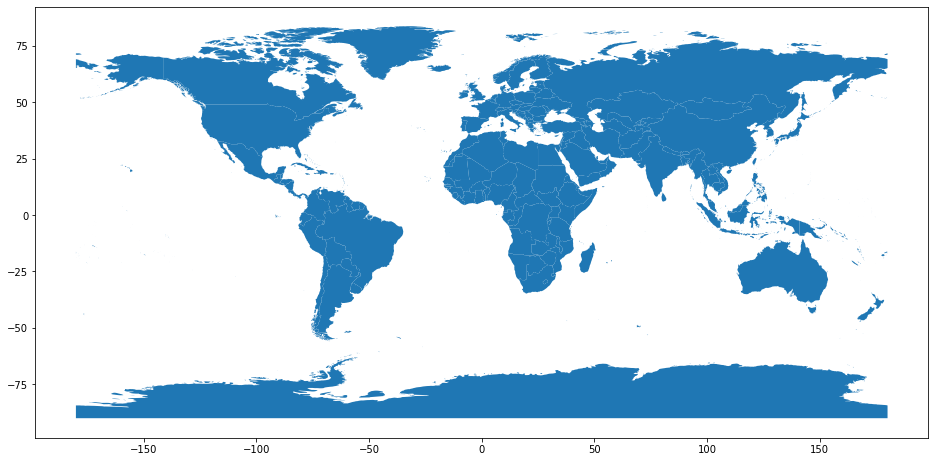
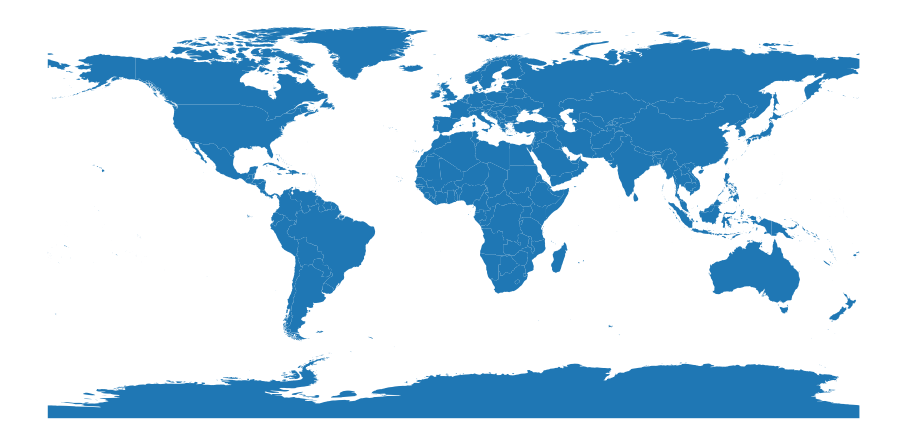
week1/out/1.png

diff --git a/week1/week1.py b/week1/week1.py
@@ -9,7 +9,8 @@ my_fig, my_ax = subplots(1, 1, figsize=(16, 10))
 
 # plot the countries onto ax
 world.plot(ax = my_ax)
-
+# turn off the visible axes on the map
+my_ax.axis('off')
 # save the result
 savefig('week1/out/1.png')
-print("done!") 
+print("done!")
